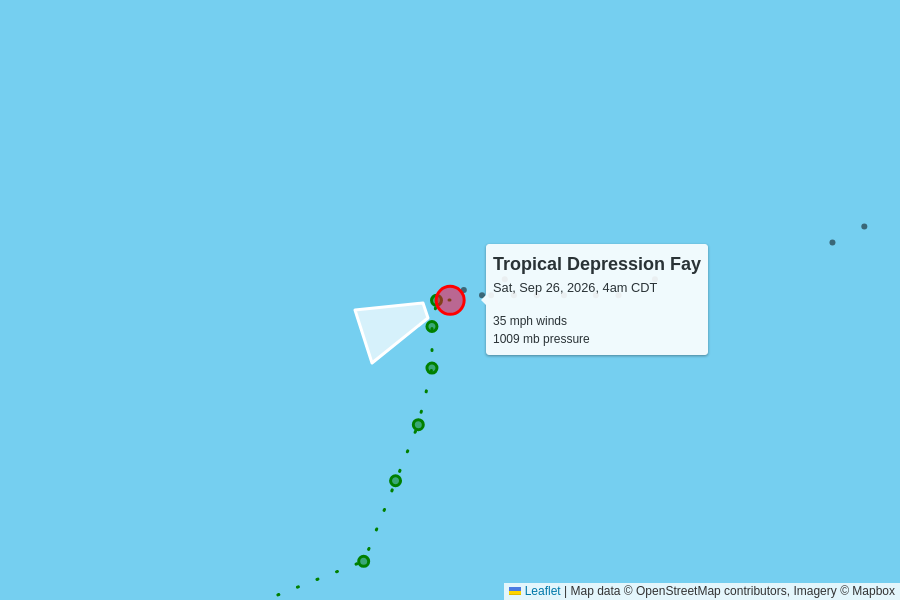
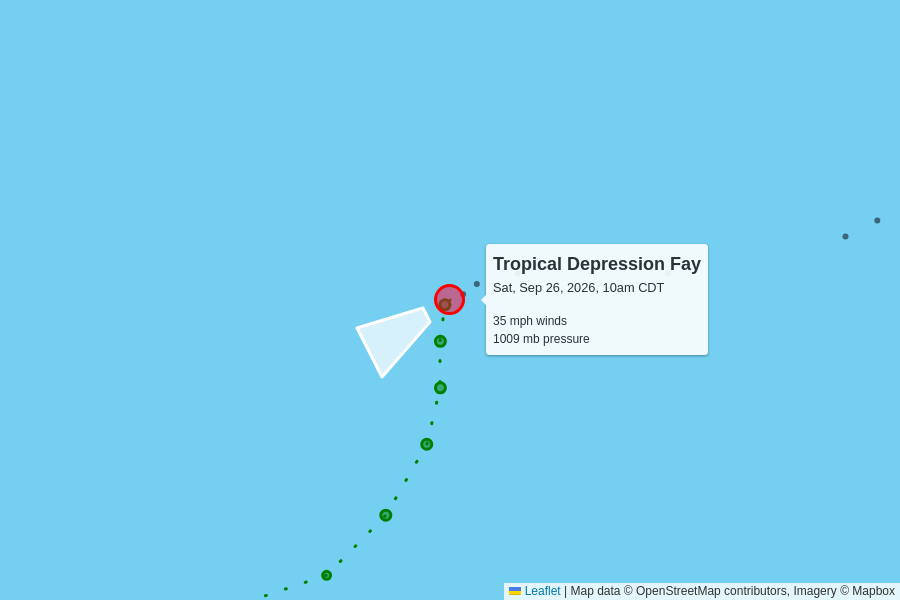
automatic update

diff --git a/docs/2026.html b/docs/2026.html
@@ -45,13 +45,13 @@
       <grid-container>
           <grid-row>
             <script type="text/json" id="storm_data_AL062026">
-              {"pressure":[{"timestamp":"2026-09-19T15:00:00.000Z","value":1009},{"timestamp":"2026-09-19T21:00:00.000Z","value":1007},{"timestamp":"2026-09-20T03:00:00.000Z","value":1007},{"timestamp":"2026-09-20T09:00:00.000Z","value":1004},{"timestamp":"2026-09-20T15:00:00.000Z","value":1004},{"timestamp":"2026-09-20T21:00:00.000Z","value":999},{"timestamp":"2026-09-21T03:00:00.000Z","value":995},{"timestamp":"2026-09-21T09:00:00.000Z","value":997},{"timestamp":"2026-09-21T15:00:00.000Z","value":1000},{"timestamp":"2026-09-21T21:00:00.000Z","value":1004},{"timestamp":"2026-09-22T03:00:00.000Z","value":1008},{"timestamp":"2026-09-22T09:00:00.000Z","value":1009},{"timestamp":"2026-09-22T15:00:00.000Z","value":1010},{"timestamp":"2026-09-22T21:00:00.000Z","value":1011},{"timestamp":"2026-09-23T21:00:00.000Z","value":1011},{"timestamp":"2026-09-24T03:00:00.000Z","value":1010},{"timestamp":"2026-09-24T09:00:00.000Z","value":1010},{"timestamp":"2026-09-24T15:00:00.000Z","value":1005},{"timestamp":"2026-09-24T21:00:00.000Z","value":1005},{"timestamp":"2026-09-25T03:00:00.000Z","value":1005},{"timestamp":"2026-09-25T09:00:00.000Z","value":1004},{"timestamp":"2026-09-25T15:00:00.000Z","value":1002},{"timestamp":"2026-09-25T21:00:00.000Z","value":1004},{"timestamp":"2026-09-26T03:00:00.000Z","value":1006},{"timestamp":"2026-09-26T09:00:00.000Z","value":1009}],"wind":[{"timestamp":"2026-09-19T15:00:00.000Z","value":35},{"timestamp":"2026-09-19T21:00:00.000Z","value":35},{"timestamp":"2026-09-20T03:00:00.000Z","value":35},{"timestamp":"2026-09-20T09:00:00.000Z","value":45},{"timestamp":"2026-09-20T15:00:00.000Z","value":60},{"timestamp":"2026-09-20T21:00:00.000Z","value":65},{"timestamp":"2026-09-21T03:00:00.000Z","value":70},{"timestamp":"2026-09-21T09:00:00.000Z","value":65},{"timestamp":"2026-09-21T15:00:00.000Z","value":50},{"timestamp":"2026-09-21T21:00:00.000Z","value":45},{"timestamp":"2026-09-22T03:00:00.000Z","value":40},{"timestamp":"2026-09-22T09:00:00.000Z","value":40},{"timestamp":"2026-09-22T15:00:00.000Z","value":35},{"timestamp":"2026-09-22T21:00:00.000Z","value":35},{"timestamp":"2026-09-23T21:00:00.000Z","value":35},{"timestamp":"2026-09-24T03:00:00.000Z","value":40},{"timestamp":"2026-09-24T09:00:00.000Z","value":40},{"timestamp":"2026-09-24T15:00:00.000Z","value":50},{"timestamp":"2026-09-24T21:00:00.000Z","value":50},{"timestamp":"2026-09-25T03:00:00.000Z","value":50},{"timestamp":"2026-09-25T09:00:00.000Z","value":50},{"timestamp":"2026-09-25T15:00:00.000Z","value":60},{"timestamp":"2026-09-25T21:00:00.000Z","value":50},{"timestamp":"2026-09-26T03:00:00.000Z","value":40},{"timestamp":"2026-09-26T09:00:00.000Z","value":35}]}
+              {"pressure":[{"timestamp":"2026-09-19T15:00:00.000Z","value":1009},{"timestamp":"2026-09-19T21:00:00.000Z","value":1007},{"timestamp":"2026-09-20T03:00:00.000Z","value":1007},{"timestamp":"2026-09-20T09:00:00.000Z","value":1004},{"timestamp":"2026-09-20T15:00:00.000Z","value":1004},{"timestamp":"2026-09-20T21:00:00.000Z","value":999},{"timestamp":"2026-09-21T03:00:00.000Z","value":995},{"timestamp":"2026-09-21T09:00:00.000Z","value":997},{"timestamp":"2026-09-21T15:00:00.000Z","value":1000},{"timestamp":"2026-09-21T21:00:00.000Z","value":1004},{"timestamp":"2026-09-22T03:00:00.000Z","value":1008},{"timestamp":"2026-09-22T09:00:00.000Z","value":1009},{"timestamp":"2026-09-22T15:00:00.000Z","value":1010},{"timestamp":"2026-09-22T21:00:00.000Z","value":1011},{"timestamp":"2026-09-23T21:00:00.000Z","value":1011},{"timestamp":"2026-09-24T03:00:00.000Z","value":1010},{"timestamp":"2026-09-24T09:00:00.000Z","value":1010},{"timestamp":"2026-09-24T15:00:00.000Z","value":1005},{"timestamp":"2026-09-24T21:00:00.000Z","value":1005},{"timestamp":"2026-09-25T03:00:00.000Z","value":1005},{"timestamp":"2026-09-25T09:00:00.000Z","value":1004},{"timestamp":"2026-09-25T15:00:00.000Z","value":1002},{"timestamp":"2026-09-25T21:00:00.000Z","value":1004},{"timestamp":"2026-09-26T03:00:00.000Z","value":1006},{"timestamp":"2026-09-26T09:00:00.000Z","value":1009},{"timestamp":"2026-09-26T15:00:00.000Z","value":1009}],"wind":[{"timestamp":"2026-09-19T15:00:00.000Z","value":35},{"timestamp":"2026-09-19T21:00:00.000Z","value":35},{"timestamp":"2026-09-20T03:00:00.000Z","value":35},{"timestamp":"2026-09-20T09:00:00.000Z","value":45},{"timestamp":"2026-09-20T15:00:00.000Z","value":60},{"timestamp":"2026-09-20T21:00:00.000Z","value":65},{"timestamp":"2026-09-21T03:00:00.000Z","value":70},{"timestamp":"2026-09-21T09:00:00.000Z","value":65},{"timestamp":"2026-09-21T15:00:00.000Z","value":50},{"timestamp":"2026-09-21T21:00:00.000Z","value":45},{"timestamp":"2026-09-22T03:00:00.000Z","value":40},{"timestamp":"2026-09-22T09:00:00.000Z","value":40},{"timestamp":"2026-09-22T15:00:00.000Z","value":35},{"timestamp":"2026-09-22T21:00:00.000Z","value":35},{"timestamp":"2026-09-23T21:00:00.000Z","value":35},{"timestamp":"2026-09-24T03:00:00.000Z","value":40},{"timestamp":"2026-09-24T09:00:00.000Z","value":40},{"timestamp":"2026-09-24T15:00:00.000Z","value":50},{"timestamp":"2026-09-24T21:00:00.000Z","value":50},{"timestamp":"2026-09-25T03:00:00.000Z","value":50},{"timestamp":"2026-09-25T09:00:00.000Z","value":50},{"timestamp":"2026-09-25T15:00:00.000Z","value":60},{"timestamp":"2026-09-25T21:00:00.000Z","value":50},{"timestamp":"2026-09-26T03:00:00.000Z","value":40},{"timestamp":"2026-09-26T09:00:00.000Z","value":35},{"timestamp":"2026-09-26T15:00:00.000Z","value":35}]}
             </script>              <grid-container class="storm">
                 <grid-row onClick="toggle('storm_AL062026')">
                   <h2>
                     Tropical Depression Fay
                     <div class="updated">
-                      last updated <time datetime="2026-09-26T09:00:00.000Z">2026-09-26T09:00:00.000Z</time>
+                      last updated <time datetime="2026-09-26T15:00:00.000Z">2026-09-26T15:00:00.000Z</time>
                     </div>
                   </h2>
                 </grid-row>
@@ -69,17 +69,17 @@
                         <td>
                           35 mph
                           <br>
-                          -5 mph since last update
+                          0 mph since last update
                         </td>
                         <td>
                           1009 mb
                           <br>
-                          +3 mb since last update
+                          0 mb since last update
                         </td>
                         <td>
-                          3 mph to the west-southwest
+                          5 mph to the west-southwest
                           <br>
-                          <span style="display: inline-block; font-size: 1.5em; transform: rotate(250deg);">↑</span>
+                          <span style="display: inline-block; font-size: 1.5em; transform: rotate(240deg);">↑</span>
                         </td>
                         <td>
                           <a href="https://raw.githubusercontent.com/mgwalker/atlantic-hurricanes/main/data/csv/AL062026.csv">AL062026.csv</a>
@@ -134,13 +134,13 @@
               </grid-container>          </grid-row>
           <grid-row>
             <script type="text/json" id="storm_data_AL072026">
-              {"pressure":[{"timestamp":"2026-09-25T03:00:00.000Z","value":1004},{"timestamp":"2026-09-25T09:00:00.000Z","value":1004},{"timestamp":"2026-09-25T21:00:00.000Z","value":1000},{"timestamp":"2026-09-26T03:00:00.000Z","value":1002},{"timestamp":"2026-09-26T09:00:00.000Z","value":1002}],"wind":[{"timestamp":"2026-09-25T03:00:00.000Z","value":45},{"timestamp":"2026-09-25T09:00:00.000Z","value":45},{"timestamp":"2026-09-25T21:00:00.000Z","value":50},{"timestamp":"2026-09-26T03:00:00.000Z","value":45},{"timestamp":"2026-09-26T09:00:00.000Z","value":45}]}
+              {"pressure":[{"timestamp":"2026-09-25T03:00:00.000Z","value":1004},{"timestamp":"2026-09-25T09:00:00.000Z","value":1004},{"timestamp":"2026-09-25T21:00:00.000Z","value":1000},{"timestamp":"2026-09-26T03:00:00.000Z","value":1002},{"timestamp":"2026-09-26T09:00:00.000Z","value":1002},{"timestamp":"2026-09-26T15:00:00.000Z","value":1005}],"wind":[{"timestamp":"2026-09-25T03:00:00.000Z","value":45},{"timestamp":"2026-09-25T09:00:00.000Z","value":45},{"timestamp":"2026-09-25T21:00:00.000Z","value":50},{"timestamp":"2026-09-26T03:00:00.000Z","value":45},{"timestamp":"2026-09-26T09:00:00.000Z","value":45},{"timestamp":"2026-09-26T15:00:00.000Z","value":40}]}
             </script>              <grid-container class="storm">
                 <grid-row onClick="toggle('storm_AL072026')">
                   <h2>
                     Tropical Storm Gonzalo
                     <div class="updated">
-                      last updated <time datetime="2026-09-26T09:00:00.000Z">2026-09-26T09:00:00.000Z</time>
+                      last updated <time datetime="2026-09-26T15:00:00.000Z">2026-09-26T15:00:00.000Z</time>
                     </div>
                   </h2>
                 </grid-row>
@@ -156,19 +156,19 @@
                       </tr>
                       <tr>
                         <td>
-                          45 mph
+                          40 mph
                           <br>
-                          0 mph since last update
+                          -5 mph since last update
                         </td>
                         <td>
-                          1002 mb
+                          1005 mb
                           <br>
-                          0 mb since last update
+                          +3 mb since last update
                         </td>
                         <td>
-                          9 mph to the north
+                          10 mph to the north-northwest
                           <br>
-                          <span style="display: inline-block; font-size: 1.5em; transform: rotate(350deg);">↑</span>
+                          <span style="display: inline-block; font-size: 1.5em; transform: rotate(345deg);">↑</span>
                         </td>
                         <td>
                           <a href="https://raw.githubusercontent.com/mgwalker/atlantic-hurricanes/main/data/csv/AL072026.csv">AL072026.csv</a>

diff --git a/docs/index.html b/docs/index.html
@@ -45,13 +45,13 @@
       <grid-container>
           <grid-row>
             <script type="text/json" id="storm_data_AL062026">
-              {"pressure":[{"timestamp":"2026-09-19T15:00:00.000Z","value":1009},{"timestamp":"2026-09-19T21:00:00.000Z","value":1007},{"timestamp":"2026-09-20T03:00:00.000Z","value":1007},{"timestamp":"2026-09-20T09:00:00.000Z","value":1004},{"timestamp":"2026-09-20T15:00:00.000Z","value":1004},{"timestamp":"2026-09-20T21:00:00.000Z","value":999},{"timestamp":"2026-09-21T03:00:00.000Z","value":995},{"timestamp":"2026-09-21T09:00:00.000Z","value":997},{"timestamp":"2026-09-21T15:00:00.000Z","value":1000},{"timestamp":"2026-09-21T21:00:00.000Z","value":1004},{"timestamp":"2026-09-22T03:00:00.000Z","value":1008},{"timestamp":"2026-09-22T09:00:00.000Z","value":1009},{"timestamp":"2026-09-22T15:00:00.000Z","value":1010},{"timestamp":"2026-09-22T21:00:00.000Z","value":1011},{"timestamp":"2026-09-23T21:00:00.000Z","value":1011},{"timestamp":"2026-09-24T03:00:00.000Z","value":1010},{"timestamp":"2026-09-24T09:00:00.000Z","value":1010},{"timestamp":"2026-09-24T15:00:00.000Z","value":1005},{"timestamp":"2026-09-24T21:00:00.000Z","value":1005},{"timestamp":"2026-09-25T03:00:00.000Z","value":1005},{"timestamp":"2026-09-25T09:00:00.000Z","value":1004},{"timestamp":"2026-09-25T15:00:00.000Z","value":1002},{"timestamp":"2026-09-25T21:00:00.000Z","value":1004},{"timestamp":"2026-09-26T03:00:00.000Z","value":1006},{"timestamp":"2026-09-26T09:00:00.000Z","value":1009}],"wind":[{"timestamp":"2026-09-19T15:00:00.000Z","value":35},{"timestamp":"2026-09-19T21:00:00.000Z","value":35},{"timestamp":"2026-09-20T03:00:00.000Z","value":35},{"timestamp":"2026-09-20T09:00:00.000Z","value":45},{"timestamp":"2026-09-20T15:00:00.000Z","value":60},{"timestamp":"2026-09-20T21:00:00.000Z","value":65},{"timestamp":"2026-09-21T03:00:00.000Z","value":70},{"timestamp":"2026-09-21T09:00:00.000Z","value":65},{"timestamp":"2026-09-21T15:00:00.000Z","value":50},{"timestamp":"2026-09-21T21:00:00.000Z","value":45},{"timestamp":"2026-09-22T03:00:00.000Z","value":40},{"timestamp":"2026-09-22T09:00:00.000Z","value":40},{"timestamp":"2026-09-22T15:00:00.000Z","value":35},{"timestamp":"2026-09-22T21:00:00.000Z","value":35},{"timestamp":"2026-09-23T21:00:00.000Z","value":35},{"timestamp":"2026-09-24T03:00:00.000Z","value":40},{"timestamp":"2026-09-24T09:00:00.000Z","value":40},{"timestamp":"2026-09-24T15:00:00.000Z","value":50},{"timestamp":"2026-09-24T21:00:00.000Z","value":50},{"timestamp":"2026-09-25T03:00:00.000Z","value":50},{"timestamp":"2026-09-25T09:00:00.000Z","value":50},{"timestamp":"2026-09-25T15:00:00.000Z","value":60},{"timestamp":"2026-09-25T21:00:00.000Z","value":50},{"timestamp":"2026-09-26T03:00:00.000Z","value":40},{"timestamp":"2026-09-26T09:00:00.000Z","value":35}]}
+              {"pressure":[{"timestamp":"2026-09-19T15:00:00.000Z","value":1009},{"timestamp":"2026-09-19T21:00:00.000Z","value":1007},{"timestamp":"2026-09-20T03:00:00.000Z","value":1007},{"timestamp":"2026-09-20T09:00:00.000Z","value":1004},{"timestamp":"2026-09-20T15:00:00.000Z","value":1004},{"timestamp":"2026-09-20T21:00:00.000Z","value":999},{"timestamp":"2026-09-21T03:00:00.000Z","value":995},{"timestamp":"2026-09-21T09:00:00.000Z","value":997},{"timestamp":"2026-09-21T15:00:00.000Z","value":1000},{"timestamp":"2026-09-21T21:00:00.000Z","value":1004},{"timestamp":"2026-09-22T03:00:00.000Z","value":1008},{"timestamp":"2026-09-22T09:00:00.000Z","value":1009},{"timestamp":"2026-09-22T15:00:00.000Z","value":1010},{"timestamp":"2026-09-22T21:00:00.000Z","value":1011},{"timestamp":"2026-09-23T21:00:00.000Z","value":1011},{"timestamp":"2026-09-24T03:00:00.000Z","value":1010},{"timestamp":"2026-09-24T09:00:00.000Z","value":1010},{"timestamp":"2026-09-24T15:00:00.000Z","value":1005},{"timestamp":"2026-09-24T21:00:00.000Z","value":1005},{"timestamp":"2026-09-25T03:00:00.000Z","value":1005},{"timestamp":"2026-09-25T09:00:00.000Z","value":1004},{"timestamp":"2026-09-25T15:00:00.000Z","value":1002},{"timestamp":"2026-09-25T21:00:00.000Z","value":1004},{"timestamp":"2026-09-26T03:00:00.000Z","value":1006},{"timestamp":"2026-09-26T09:00:00.000Z","value":1009},{"timestamp":"2026-09-26T15:00:00.000Z","value":1009}],"wind":[{"timestamp":"2026-09-19T15:00:00.000Z","value":35},{"timestamp":"2026-09-19T21:00:00.000Z","value":35},{"timestamp":"2026-09-20T03:00:00.000Z","value":35},{"timestamp":"2026-09-20T09:00:00.000Z","value":45},{"timestamp":"2026-09-20T15:00:00.000Z","value":60},{"timestamp":"2026-09-20T21:00:00.000Z","value":65},{"timestamp":"2026-09-21T03:00:00.000Z","value":70},{"timestamp":"2026-09-21T09:00:00.000Z","value":65},{"timestamp":"2026-09-21T15:00:00.000Z","value":50},{"timestamp":"2026-09-21T21:00:00.000Z","value":45},{"timestamp":"2026-09-22T03:00:00.000Z","value":40},{"timestamp":"2026-09-22T09:00:00.000Z","value":40},{"timestamp":"2026-09-22T15:00:00.000Z","value":35},{"timestamp":"2026-09-22T21:00:00.000Z","value":35},{"timestamp":"2026-09-23T21:00:00.000Z","value":35},{"timestamp":"2026-09-24T03:00:00.000Z","value":40},{"timestamp":"2026-09-24T09:00:00.000Z","value":40},{"timestamp":"2026-09-24T15:00:00.000Z","value":50},{"timestamp":"2026-09-24T21:00:00.000Z","value":50},{"timestamp":"2026-09-25T03:00:00.000Z","value":50},{"timestamp":"2026-09-25T09:00:00.000Z","value":50},{"timestamp":"2026-09-25T15:00:00.000Z","value":60},{"timestamp":"2026-09-25T21:00:00.000Z","value":50},{"timestamp":"2026-09-26T03:00:00.000Z","value":40},{"timestamp":"2026-09-26T09:00:00.000Z","value":35},{"timestamp":"2026-09-26T15:00:00.000Z","value":35}]}
             </script>              <grid-container class="storm">
                 <grid-row onClick="toggle('storm_AL062026')">
                   <h2>
                     Tropical Depression Fay
                     <div class="updated">
-                      last updated <time datetime="2026-09-26T09:00:00.000Z">2026-09-26T09:00:00.000Z</time>
+                      last updated <time datetime="2026-09-26T15:00:00.000Z">2026-09-26T15:00:00.000Z</time>
                     </div>
                   </h2>
                 </grid-row>
@@ -69,17 +69,17 @@
                         <td>
                           35 mph
                           <br>
-                          -5 mph since last update
+                          0 mph since last update
                         </td>
                         <td>
                           1009 mb
                           <br>
-                          +3 mb since last update
+                          0 mb since last update
                         </td>
                         <td>
-                          3 mph to the west-southwest
+                          5 mph to the west-southwest
                           <br>
-                          <span style="display: inline-block; font-size: 1.5em; transform: rotate(250deg);">↑</span>
+                          <span style="display: inline-block; font-size: 1.5em; transform: rotate(240deg);">↑</span>
                         </td>
                         <td>
                           <a href="https://raw.githubusercontent.com/mgwalker/atlantic-hurricanes/main/data/csv/AL062026.csv">AL062026.csv</a>
@@ -134,13 +134,13 @@
               </grid-container>          </grid-row>
           <grid-row>
             <script type="text/json" id="storm_data_AL072026">
-              {"pressure":[{"timestamp":"2026-09-25T03:00:00.000Z","value":1004},{"timestamp":"2026-09-25T09:00:00.000Z","value":1004},{"timestamp":"2026-09-25T21:00:00.000Z","value":1000},{"timestamp":"2026-09-26T03:00:00.000Z","value":1002},{"timestamp":"2026-09-26T09:00:00.000Z","value":1002}],"wind":[{"timestamp":"2026-09-25T03:00:00.000Z","value":45},{"timestamp":"2026-09-25T09:00:00.000Z","value":45},{"timestamp":"2026-09-25T21:00:00.000Z","value":50},{"timestamp":"2026-09-26T03:00:00.000Z","value":45},{"timestamp":"2026-09-26T09:00:00.000Z","value":45}]}
+              {"pressure":[{"timestamp":"2026-09-25T03:00:00.000Z","value":1004},{"timestamp":"2026-09-25T09:00:00.000Z","value":1004},{"timestamp":"2026-09-25T21:00:00.000Z","value":1000},{"timestamp":"2026-09-26T03:00:00.000Z","value":1002},{"timestamp":"2026-09-26T09:00:00.000Z","value":1002},{"timestamp":"2026-09-26T15:00:00.000Z","value":1005}],"wind":[{"timestamp":"2026-09-25T03:00:00.000Z","value":45},{"timestamp":"2026-09-25T09:00:00.000Z","value":45},{"timestamp":"2026-09-25T21:00:00.000Z","value":50},{"timestamp":"2026-09-26T03:00:00.000Z","value":45},{"timestamp":"2026-09-26T09:00:00.000Z","value":45},{"timestamp":"2026-09-26T15:00:00.000Z","value":40}]}
             </script>              <grid-container class="storm">
                 <grid-row onClick="toggle('storm_AL072026')">
                   <h2>
                     Tropical Storm Gonzalo
                     <div class="updated">
-                      last updated <time datetime="2026-09-26T09:00:00.000Z">2026-09-26T09:00:00.000Z</time>
+                      last updated <time datetime="2026-09-26T15:00:00.000Z">2026-09-26T15:00:00.000Z</time>
                     </div>
                   </h2>
                 </grid-row>
@@ -156,19 +156,19 @@
                       </tr>
                       <tr>
                         <td>
-                          45 mph
+                          40 mph
                           <br>
-                          0 mph since last update
+                          -5 mph since last update
                         </td>
                         <td>
-                          1002 mb
+                          1005 mb
                           <br>
-                          0 mb since last update
+                          +3 mb since last update
                         </td>
                         <td>
-                          9 mph to the north
+                          10 mph to the north-northwest
                           <br>
-                          <span style="display: inline-block; font-size: 1.5em; transform: rotate(350deg);">↑</span>
+                          <span style="display: inline-block; font-size: 1.5em; transform: rotate(345deg);">↑</span>
                         </td>
                         <td>
                           <a href="https://raw.githubusercontent.com/mgwalker/atlantic-hurricanes/main/data/csv/AL072026.csv">AL072026.csv</a>
